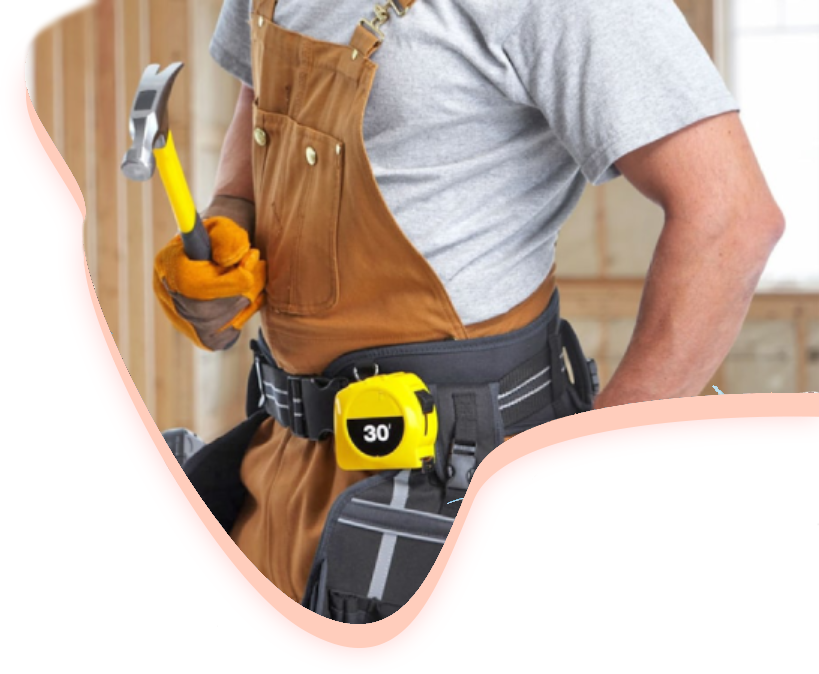
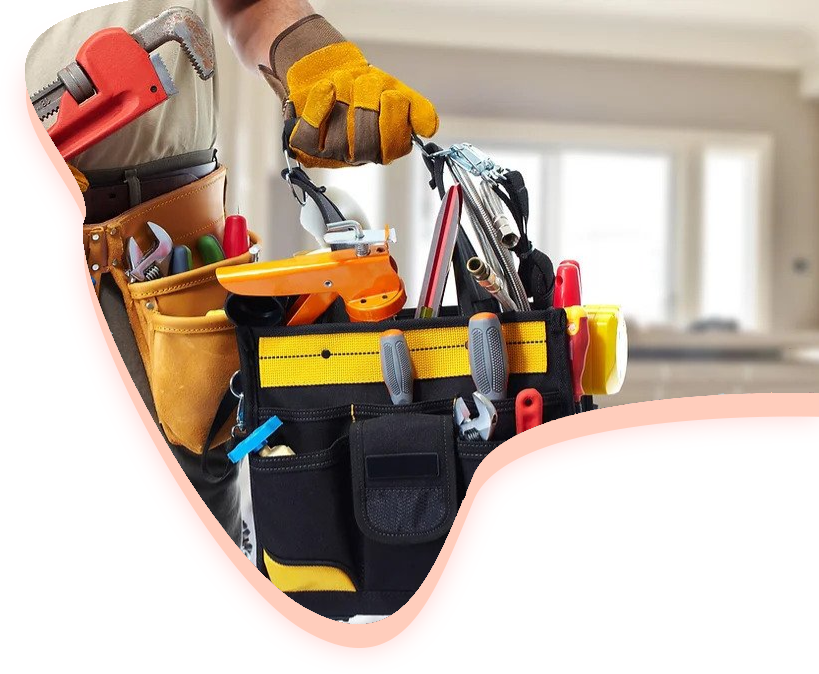
updated home page

diff --git a/index.html b/index.html
@@ -267,7 +267,7 @@
       <div class="row">
         <div class="col-lg-6 align-self-center">
           <div class="left-image">
-            <img src="assets/images/about-left-image.png" alt="Two Girls working together">
+            <img src="assets/images/home-about-left-image.png" alt="Two Girls working together">
           </div>
         </div>
         <div class="col-lg-6">
@@ -347,151 +347,48 @@
             <div class="item">
               <div class="thumb">
                 <img src="assets/images/project-1.jpeg" alt="">
-                <div class="hover-effect">
-                  <div class="inner-content">
-                    <a rel="sponsored" href="https://templatemo.com/tm-564-plot-listing" target="_parent">
-                      <h4>Kitchen Remodel</h4>
-                    </a>
-                  </div>
-                </div>
+
               </div>
             </div>
             <div class="item">
               <div class="thumb">
                 <img src="assets/images/project-2.jpeg" alt="">
-                <div class="hover-effect">
-                  <div class="inner-content">
-                    <a href="#">
-                      <h4>Bathroom Remodel</h4>
-                    </a>
-                  </div>
-                </div>
+
               </div>
             </div>
             <div class="item">
               <div class="thumb">
                 <img src="assets/images/project-3.jpeg" alt="">
-                <div class="hover-effect">
-                  <div class="inner-content">
-                    <a rel="sponsored" href="https://templatemo.com/tm-562-space-dynamic" target="_parent">
-                      <h4>Bathroom Remodel</h4>
-                    </a>
-                  </div>
-                </div>
+                
               </div>
             </div>
             <div class="item">
               <div class="thumb">
                 <img src="assets/images/project-4.jpeg" alt="">
-                <div class="hover-effect">
-                  <div class="inner-content">
-                    <a href="#">
-                      <h4>Pressure Washing</h4>
-                    </a>
-                  </div>
-                </div>
+                
               </div>
             </div>
             <div class="item">
               <div class="thumb">
                 <img src="assets/images/project-5.jpeg" alt="">
-                <div class="hover-effect">
-                  <div class="inner-content">
-                    <a href="#">
-                      <h4>Kitchen Remodel</h4>
-                    </a>
-                  </div>
-                </div>
+   
               </div>
             </div>
             <div class="item">
               <div class="thumb">
                 <img src="assets/images/project-6.jpeg" alt="">
-                <div class="hover-effect">
-                  <div class="inner-content">
-                    <a href="#">
-                      <h4>Kitchen Remodeling</h4>
-                    </a>
-                  </div>
-                </div>
               </div>
             </div>
             <div class="item">
               <div class="thumb">
                 <img src="assets/images/project-7.png" alt="">
-                <div class="hover-effect">
-                  <div class="inner-content">
-                    <a href="#">
-                      <h4>Kitchen Remodeling</h4>
-                    </a>
-                  </div>
-                </div>
               </div>
             </div>
             <div class="item">
               <div class="thumb">
                 <img src="assets/images/project-8.jpeg" alt="">
-                <div class="hover-effect">
-                  <div class="inner-content">
-                    <a href="#">
-                      <h4>Extending Kitchen</h4>
-                    </a>
-                  </div>
-                </div>
               </div>
-            </div>
-            <!-- <div class="item">
-              <div class="thumb">
-                <img src="assets/images/project-1.jpeg" alt="">
-                <div class="hover-effect">
-                  <div class="inner-content">
-                    <a href="#">
-                      <h4>9th Project</h4>
-                    </a>
-                    <span>SEO &amp; Marketing</span>
-                  </div>
-                </div>
-              </div>
-            </div>
-            <div class="item">
-              <div class="thumb">
-                <img src="assets/images/project-2.jpeg" alt="">
-                <div class="hover-effect">
-                  <div class="inner-content">
-                    <a href="#">
-                      <h4>Project Ten</h4>
-                    </a>
-                    <span>SEO &amp; Marketing</span>
-                  </div>
-                </div>
-              </div>
-            </div>
-            <div class="item">
-              <div class="thumb">
-                <img src="assets/images/portfolio-03.jpg" alt="">
-                <div class="hover-effect">
-                  <div class="inner-content">
-                    <a href="#">
-                      <h4>Project Eleven</h4>
-                    </a>
-                    <span>SEO &amp; Marketing</span>
-                  </div>
-                </div>
-              </div>
-            </div>
-            <div class="item">
-              <div class="thumb">
-                <img src="assets/images/project-3.jpeg" alt="">
-                <div class="hover-effect">
-                  <div class="inner-content">
-                    <a href="#">
-                      <h4>12th Project</h4>
-                    </a>
-                    <span>SEO &amp; Marketing</span>
-                  </div>
-                </div>
-              </div>
-            </div> -->
+            </div>          
           </div>
         </div>
       </div>

diff --git a/assets/css/templatemo-onix-digital.css b/assets/css/templatemo-onix-digital.css
@@ -2096,3 +2096,23 @@ responsive
     margin-bottom: 20px;
   }
 }
+
+/* custom css */
+.owl-carousel .item .thumb {
+  position: relative;
+  overflow: hidden;
+  width: 100%; /* adjust the width according to your needs */
+  height: 300px; /* adjust the height according to your needs */
+}
+
+.owl-carousel .item .thumb img {
+  position: absolute;
+  top: 50%;
+  left: 50%;
+  width: 100%; /* or "auto" if you want to maintain the original image width */
+  height: auto;
+  transform: translate(-50%, -50%);
+  min-height: 100%;
+  min-width: 100%;
+  object-fit: cover;
+}

diff --git a/assets/css/painting.css b/assets/css/painting.css
@@ -9,21 +9,3 @@
   width: 819px;
   height: 674px;
 }
-.owl-carousel .item .thumb {
-  position: relative;
-  overflow: hidden;
-  width: 100%; /* adjust the width according to your needs */
-  height: 300px; /* adjust the height according to your needs */
-}
-
-.owl-carousel .item .thumb img {
-  position: absolute;
-  top: 50%;
-  left: 50%;
-  width: 100%; /* or "auto" if you want to maintain the original image width */
-  height: auto;
-  transform: translate(-50%, -50%);
-  min-height: 100%;
-  min-width: 100%;
-  object-fit: cover;
-}
